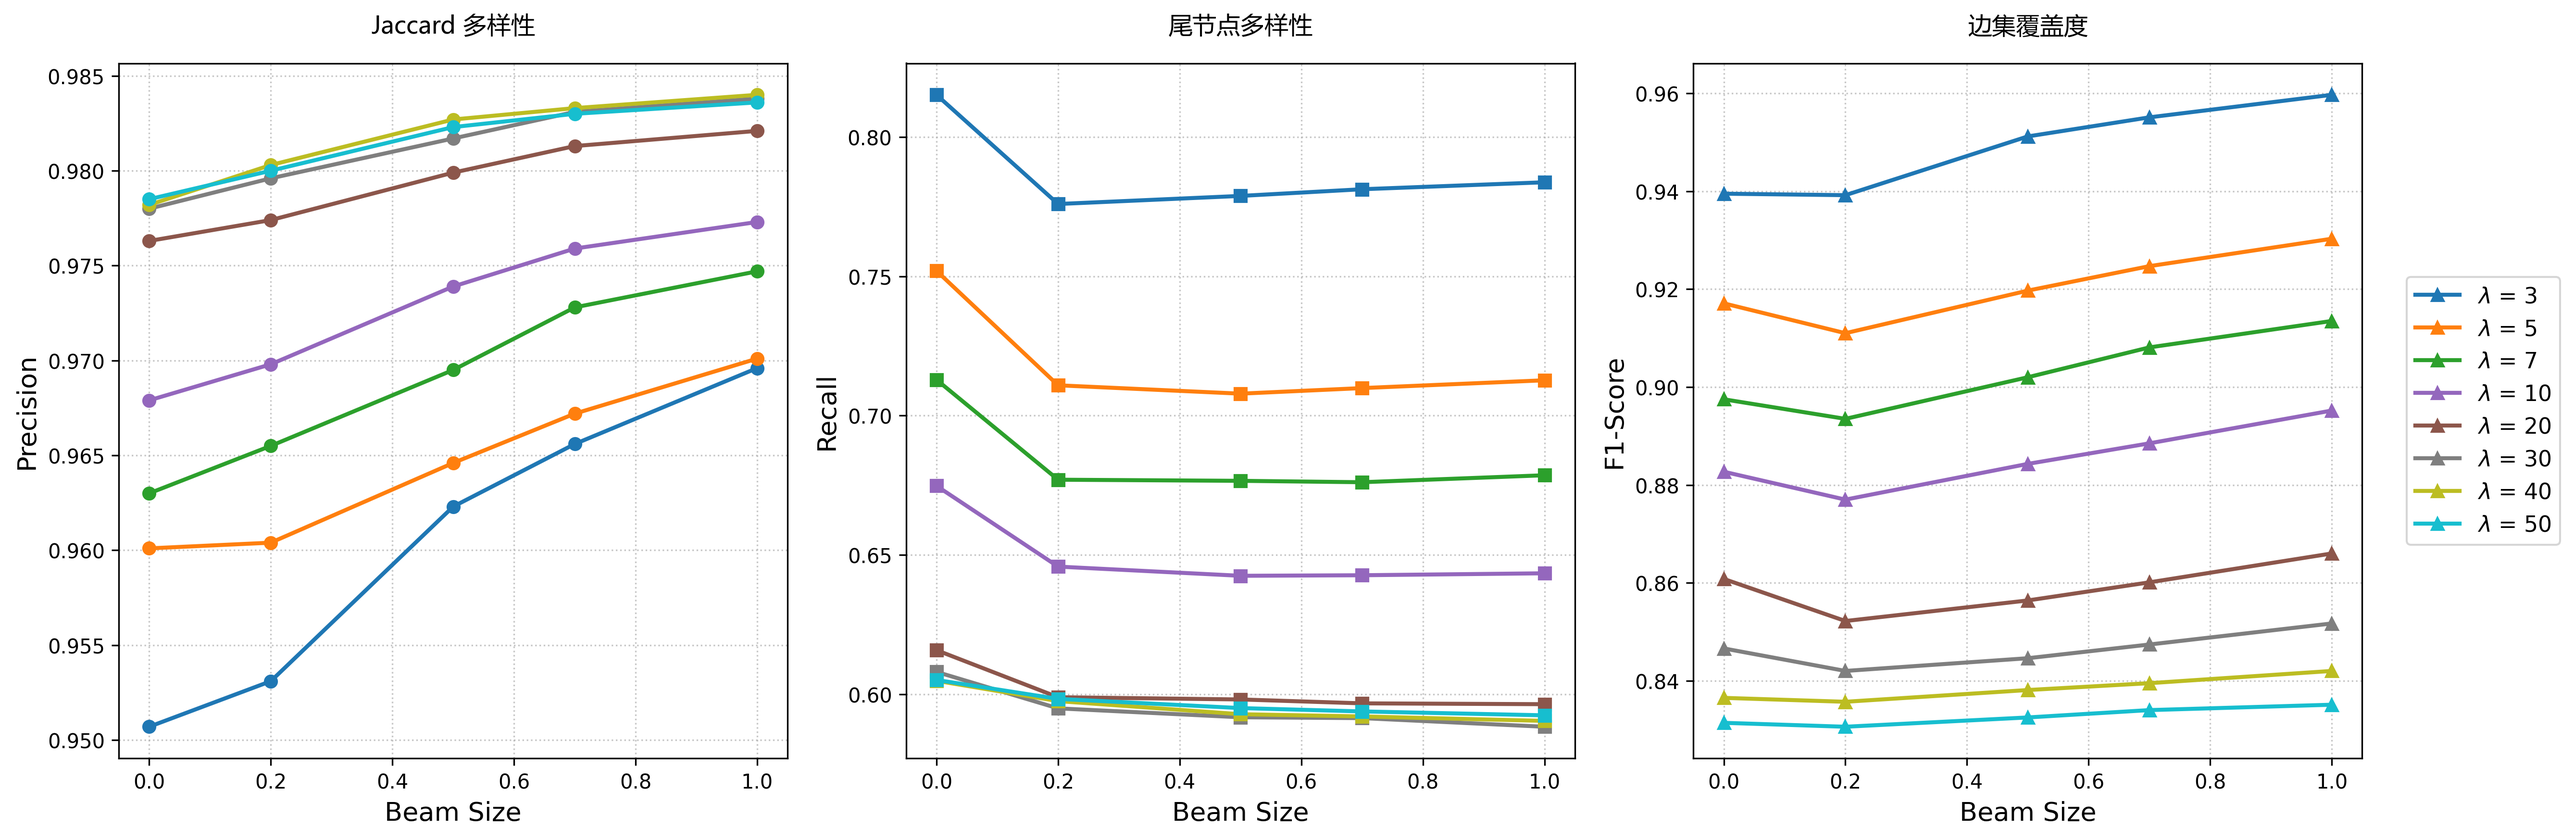
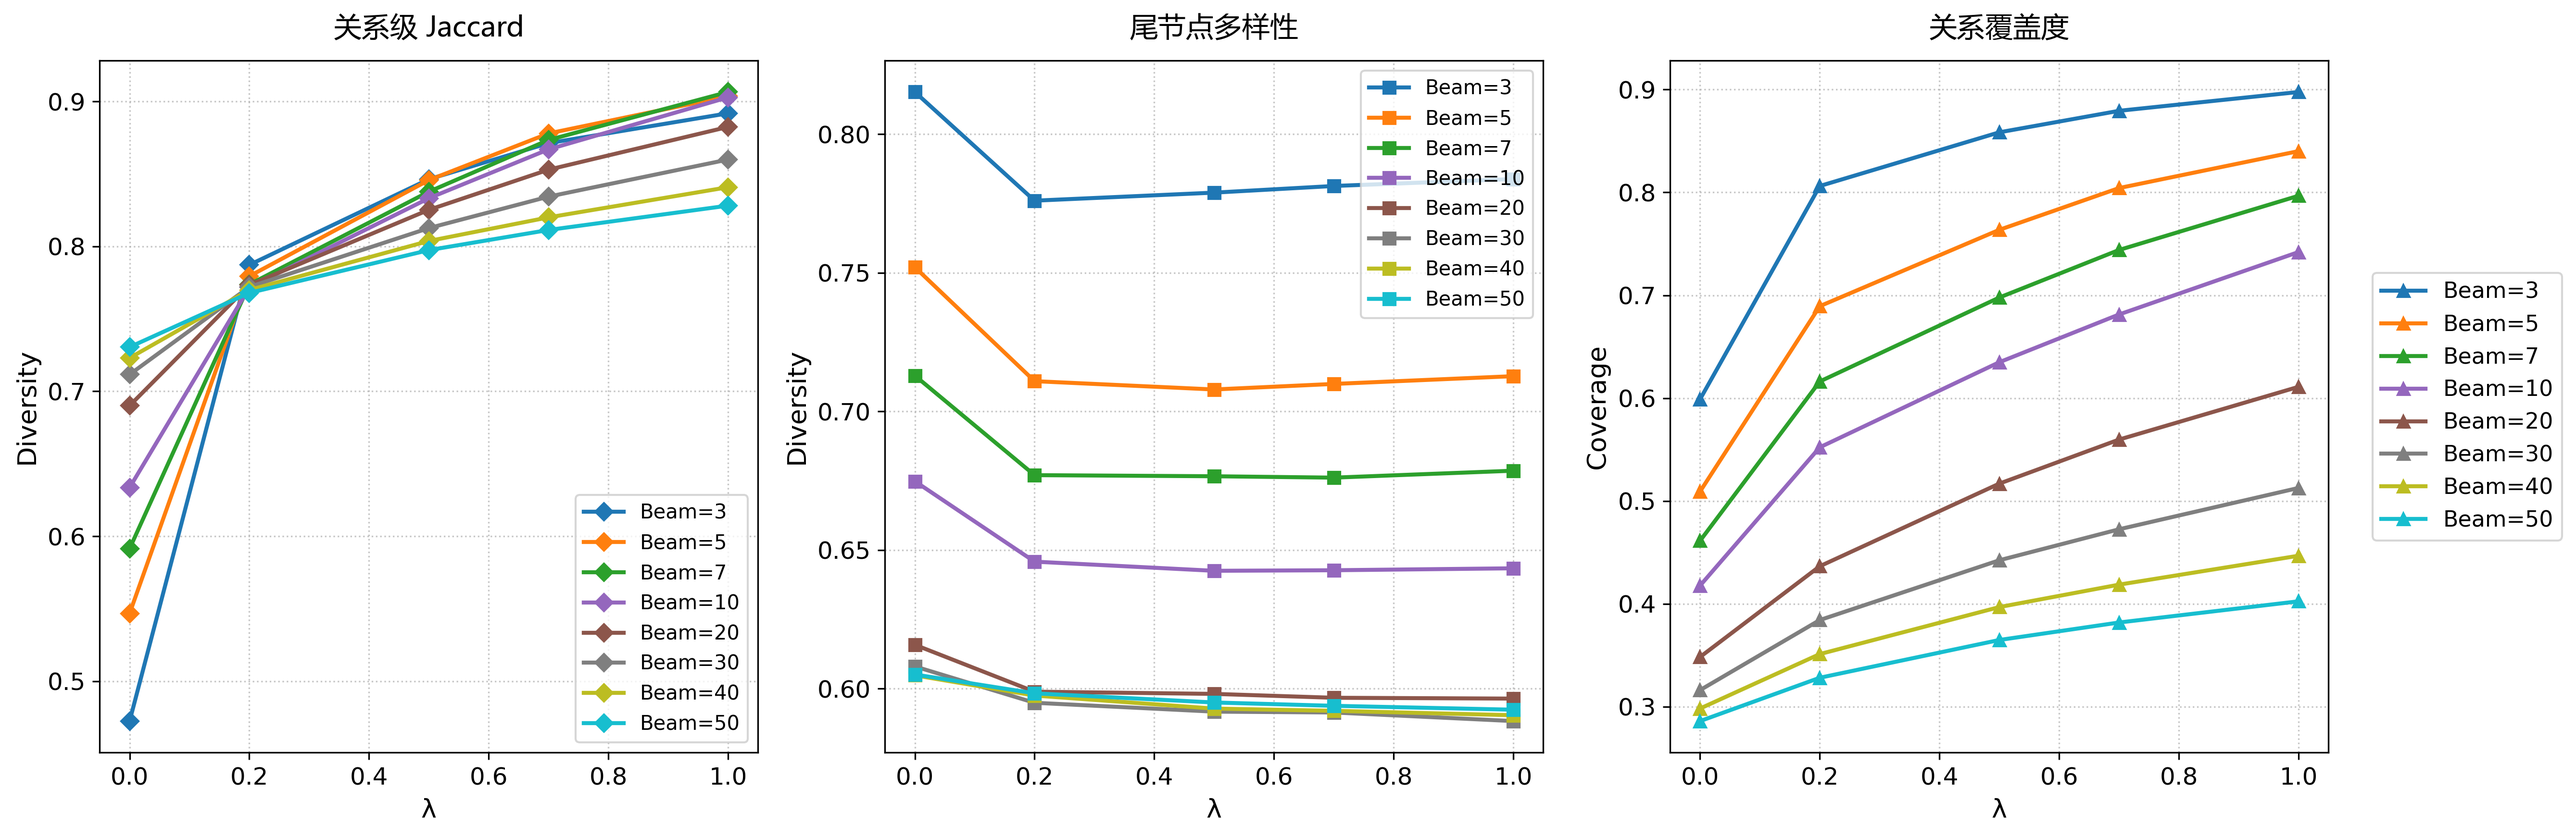
docs: update chapter3 MMR section with improved notation and analysis
- 修正数学符号一致性（$\mathcal{F}_P$, $\mathbf{s}^t[v]$, $\operatorname{Sim}$）
- 补充原始 MMR 公式及其局限性分析（相关性与多样性耦合、惩罚量级不对齐）
- 改进 MMR 改进公式的推导说明，增加对数得分域行为分析
- 将多样性指标重命名以反映关系级别（Rel-Jaccard-Div, Rel-Cov）
- 新增 3.5.3 节实验分析，包含 MMR 效果分析和 MetaQA 多样性失效分析
- 添加 MetaQA 指标失效分析图

diff --git a/docs/chapter3_new.md b/docs/chapter3_new.md
@@ -35,11 +35,11 @@ $$
 其中 $f_t(\cdot)$ 表示第 $t$ 跳对应的可学习映射。随后，模型以 $\mathbf{c}^{t}$ 为查询，对问题中的词级表示进行注意力汇聚，得到该跳的上下文表示：
 
 $$
-\beta_{i}^{t} =
+\boldsymbol{b}_{i}^{t} =
 \frac{\exp \left( (\mathbf{c}^{t})^{\top}\mathbf{h}_{i} \right)}
 {\sum_{j=1}^{L} \exp \left( (\mathbf{c}^{t})^{\top}\mathbf{h}_{j} \right)},
 \qquad
-\mathbf{u}^{t} = \sum_{i=1}^{L} \beta_{i}^{t}\mathbf{h}_{i}
+\mathbf{u}^{t} = \sum_{i=1}^{L} b_{i}^{t}\mathbf{h}_{i}
 $$
 
 基于该上下文表示，模型进一步预测当前跳对各关系的权重：
@@ -115,15 +115,15 @@ $$
 对于实体分数，我们采用全局归一化而非关系内归一化。这是因为关系内归一化会对高扇出关系产生系统性惩罚：当某一关系连接的目标实体数量远多于其他关系时，每个目标实体被均摊的概率极低，导致该关系的路径得分被严重压低，即使该关系在语义上更符合问题意图。为消除这一偏差，定义第 $t$ 跳的全局激活实体集合为：
 
 $$
-\mathcal{V}_{t}=\{v \mid \hat{s}^{\,t}(v) \ge \tau_e\}
+\mathcal{V}_{t}=\{v \mid \mathbf{s}^{t}[v] \ge \tau_e\}
 $$
 
-则实体全局归一化得分定义为：
+其中 $\mathbf{s}^{t}[v]$ 为向量 $\mathbf{s}^{t}$ 中实体 $v$ 对应的分量。那么实体全局归一化得分则可以定义为：
 
 $$
 \tilde{\beta}^{\,t}(v)=
-\frac{\hat{s}^{\,t}(v)}
-{\sum_{v' \in \mathcal{V}_{t}} \hat{s}^{\,t}(v') + \varepsilon}
+\frac{\mathbf{s}^{t}[v]}
+{\sum_{v' \in \mathcal{V}_{t}} \mathbf{s}^{t}[v'] + \varepsilon}
 $$
 
 其中 $\tau_r,\tau_e$ 为推理阶段的激活阈值，$\varepsilon = 10^{-8}$ 为数值平滑项，用于防止分母为零。上述可得单步路径得分为：
@@ -132,10 +132,10 @@ $$
 \text{score}_{\text{step}}(u, r, v; t) = \log \left( \tilde{\alpha}_{r}^{t}(u) \right) + \log \left( \tilde{\beta}^{t}(v) \right)
 $$
 
-由于 WebQSP 中 1-hop 与 2-hop 路径在最终阶段需统一排序，使用长度归一化得分以消除路径长度对累计对数得分量级的影响，长度为 $t$ 的路径最终得分为：
+考虑到不同跳数的路径在最终阶段需统一排序，使用长度归一化得分以消除路径长度对累计对数得分量级的影响，长度为 $t$ 的路径最终得分为：
 
 $$
-S_{raw}(P^{t})= \frac{1}{t} \sum_{i=1}^{t} \text{score}_{step}(e_{i-1}, r_i, e_i; i)
+S_{raw}(P^{t})= \frac{1}{t} \sum_{i=1}^{t} \text{score}_{\text{step}}(e_{i-1}, r_i, e_i; i)
 $$
 
 ### 3.3.2 路径相似度度量
@@ -145,32 +145,40 @@ $$
 基于上述考虑，我们以**关系序列**而非边序列作为路径的相似度表示。对于路径 $P = [e_0, r_1, e_1, \dots, r_t, e_t]$，定义其带位置编号的关系集合为：
 
 $$
-\mathcal{R}_{P} = \{(i,\, r_i) \mid i = 1, 2, \dots, t\}
+\mathcal{F}_{P} = \{(i,\, r_i) \mid i = 1, 2, \dots, t\}
 $$
 
-两条路径 $P_i$ 与 $P_j$ 的相似度定义为关系集合上的 Jaccard 相似度：
+两条路径 $P_i$ 与 $P_j$ 的相似度定义为带位置关系集合上的 Jaccard 相似度：
 
 $$
-Sim(P_i, P_j) =
-\frac{|\mathcal{R}_{P_i} \cap \mathcal{R}_{P_j}|}
-{|\mathcal{R}_{P_i} \cup \mathcal{R}_{P_j}|}
+\operatorname{Sim}(P_i, P_j) =
+\frac{|\mathcal{F}_{P_i} \cap \mathcal{F}_{P_j}|}
+{|\mathcal{F}_{P_i} \cup \mathcal{F}_{P_j}|}
 $$
 
 该定义使得经过相同关系序列的路径（无论尾节点是否不同）被视为高度相似，在 MMR 剪枝中受到有效抑制，从而促使最终 beam 覆盖更多不同关系类型的推理路径，提升路径集合的语义多样性。
 
 ### 3.3.3 基于 MMR 的波束剪枝策略
 
-设第 $t$ 跳候选路径集合为 $\mathcal{C}^{t}$，目标是在其中选出大小为 $B$ 的新波束集合 $\mathcal{B}^{t}$。当已经选出的部分波束为 $\mathcal{S}^{t,m-1}$，准备选择第 $m$ 条路径时，对候选路径 $P_c \in \mathcal{C}^{t} \setminus \mathcal{S}^{t,m-1}$ 计算：
+设第 $t$ 跳候选路径集合为 $\mathcal{C}^{t}$，目标是以贪心方式从中依次选出 $B$ 条路径，构成新的波束集合 $\mathcal{B}^{t}$。记选择过程的中间状态为 $\mathcal{B}^{t,m-1}$（已选前 $m-1$ 条），初始时 $\mathcal{B}^{t,0} = \emptyset$，选满后 $\mathcal{B}^{t} \triangleq \mathcal{B}^{t,B}$。我们借鉴了信息检索领域的最大边际相关性（MMR，Carbonell & Goldstein, 1998）算法，其核心思想是在每步选择中同时考虑候选与查询的相关性以及与已选集合的差异性：
 
 $$
-S_{MMR}(P_c \mid \mathcal{S}^{t,m-1}) =
+\text{MMR} \triangleq \arg\max_{d_i \in R \setminus S} \left[ (1-\lambda)\,\operatorname{Sim}(d_i, Q) - \lambda \max_{d_j \in S} \operatorname{Sim}(d_i, d_j) \right]
+$$
+
+然而，直接将原始 MMR 应用于路径波束剪枝存在两个问题。**第一，相关性与多样性强耦合。** 原始公式用 $(1-\lambda)$ 对相关性项加权，使得调大多样性惩罚 $\lambda$ 的同时必然压缩相关性得分：当 $\lambda$ 较大时，所有路径的相关性权重趋近于零，模型失去区分不同路径的能力，排序退化为纯多样性驱动。**第二，惩罚量级与路径得分不对齐。** 原始公式中两项均为相似度分数，值域为 $[0, 1]$，量级天然匹配；但我们需要选择的路径得分 $S_{raw}$ 由对数概率累加而得，值域为 $(-\infty, 0)$，与相似度项相差悬殊。固定量级的惩罚 $\lambda \cdot \max \operatorname{Sim} \in [0, \lambda]$ 在路径得分差异较大时几乎不起作用，在路径得分差异极小时又会主导排序，无法在两种情形下均保持稳定的多样性约束强度。
+
+针对上述问题，本节对 MMR 公式进行两处改进，提出适用于路径波束剪枝的打分函数。当已选部分波束为 $\mathcal{B}^{t,m-1}$，准备选择第 $m$ 条路径时，对候选路径 $P_c \in \mathcal{C}^{t} \setminus \mathcal{B}^{t,m-1}$ 计算：
+
+$$
+S_{MMR}(P_c \mid \mathcal{B}^{t,m-1}) =
 S_{raw}(P_c) - \lambda \cdot
-\max_{P_b \in \mathcal{S}^{t,m-1}} Sim(P_c, P_b)\cdot |S_{raw}(P_c)|
+\max_{P_b \in \mathcal{B}^{t,m-1}} \operatorname{Sim}(P_c, P_b) \cdot |S_{raw}(P_c)|
 $$
 
-其中 $\lambda \in [0,1]$ 为多样性惩罚权重。该设计使多样性惩罚的量级与路径得分幅值同步缩放，确保惩罚比例相对稳定——无论路径得分绝对值大小，相似度相同的候选均受到等比例的抑制，避免固定惩罚在不同量级得分间造成失衡。当 $\mathcal{S}^{t,m-1}$ 为空时，最大相似度定义为 0，首条路径退化为纯得分选择。当 $\lambda = 0$ 时算法完全取决于路径得分，等价于标准波束搜索；当 $\lambda$ 越接近 1 时，多样性惩罚越强。
+其中 $\lambda \in [0,1]$ 为多样性惩罚权重。基于公式我们做出了两点相应的改进，首先，我们去掉相关性项上的 $(1-\lambda)$ 系数，令 $S_{raw}$ 直接参与排序，使得调整 $\lambda$ 只影响惩罚幅度而不破坏路径间的相关性排序。其次，令惩罚项乘以 $|S_{raw}(P_c)|$，将多样性惩罚的量级与路径自身得分绑定，确保无论 $S_{raw}$ 取值范围如何，相似度相同的候选均受到等比例的抑制。当 $\mathcal{B}^{t,m-1}$ 为空时，最大相似度定义为 0，首条路径退化为纯得分选择；当 $\lambda = 0$ 时等价于标准波束搜索；$\lambda$ 越接近 1，多样性惩罚越强。
 
-与原始 MMR 公式 $(1-\lambda)\text{Sim}_1(d_i, Q) - \lambda \max_{d_j \in S}\text{Sim}_2(d_i, d_j)$ 相比，本节的实现有两处主要调整：一是没有对相关性项施加 $(1-\lambda)$ 系数，而是让路径原始得分直接参与排序，避免在 $\lambda$ 较大时过度压缩原始得分；二是惩罚项乘以 $|S_{raw}(P_c)|$ 以对齐路径得分量级，使惩罚强度随候选路径自身置信度自适应变化。
+进一步分析改进后公式在对数得分域下的行为：由于 $S_{raw}(P_c) < 0$，有 $|S_{raw}(P_c)| = -S_{raw}(P_c)$，惩罚项实际为 $-\lambda \cdot \max \operatorname{Sim} \cdot S_{raw}(P_c)$，这意味着本身得分越高的路径受到的绝对惩罚幅度越小，在多样性约束下仍可优先保留；而得分较低的冗余候选则受到更强抑制，从而在整体上实现**高质量优先、冗余过滤**的效果。
 
 同时考虑到路径检索的性能，我们记每跳平均扩展分支数为 $d$，波束宽度为 $B$，最大跳数为 $T$，则候选生成的时间复杂度约为 $O(TBd)$。每一跳最多形成 $O(Bd)$ 个候选路径，而贪心 MMR 需要从中迭代选出最多 $B$ 条，因此重排序开销约为 $O(TB^2d)$。由于实际大部分的图谱问答中 $T$ 很小，且波束宽度 $B$ 远小于图谱规模，因此我们的方法能在检索效率与路径覆盖之间取得较好的平衡。
 
@@ -255,7 +263,7 @@ MetaQA 数据集由 Zhang 等人提出，基于 WikiMovies 电影领域知识图
 
 为全面评价路径检索质量，本章定义两类指标：**答案检索质量指标**和**路径多样性指标**。前者衡量检索结果是否覆盖正确答案及其精确程度，后者衡量 Top-$K$ 路径之间的结构互补性。
 
-设 Top-$K$ 条路径的尾实体集合为 $\mathcal{A}_K$，真实答案集合为 $\mathcal{A}^*$，路径集合为 $\{P_1, \ldots, P_K\}$，每条路径表示为节点-关系交替序列 $P = [e_0, r_1, e_1, \ldots, r_t, e_t]$，其对应边三元组集合记为 $\mathcal{E}(P) = \{(e_{i-1}, r_i, e_i)\}_{i=1}^{t}$。
+设 Top-$K$ 条路径的尾实体集合为 $\mathcal{A}_K$，真实答案集合为 $\mathcal{A}^*$，路径集合为 $\{P_1, \ldots, P_K\}$，每条路径表示为节点-关系交替序列 $P = [e_0, r_1, e_1, \ldots, r_t, e_t]$，其对应边三元组集合记为 $\mathcal{T}(P) = \{(e_{i-1}, r_i, e_i)\}_{i=1}^{t}$。
 
 #### 答案检索质量指标
 
@@ -273,19 +281,19 @@ $$
 \text{Hit@}1 = \frac{1}{N}\sum_{i=1}^{N}\mathbf{1}\left[e_t^{(1,i)} \in \mathcal{A}^{*(i)}\right]
 $$
 
-该指标类似检索系统的 Precision@1，反映 MMR 排序后最高置信路径的质量。由于 MMR 的第一步等价于纯得分最优选择（已选集合为空，无多样性惩罚），Top1 与 $\lambda$ 完全无关，因此可用于验证 MMR 机制对排序首位的理论无影响性。
+该指标类似检索系统的 Precision@1，反映 MMR 排序后最高置信路径的质量，可用于验证 MMR 排序机制对首位路径质量的干扰程度。
 
 #### 路径多样性指标
 
-三项多样性指标均基于路径的边三元组集合 $\mathcal{E}(P)$ 计算，衡量 $K$ 条路径之间的结构互补程度。指标值域均为 $[0, 1]$，值越大表示多样性越强。
+三项多样性指标分别从关系级结构差异、尾节点分散度和关系模式覆盖三个角度衡量 $K$ 条路径之间的多样性。指标值域均为 $[0, 1]$，值越大表示多样性越强。
 
-**Jaccard 多样性**：对所有 $\binom{K}{2}$ 个路径对，计算边集 Jaccard 相似度后取补，再求均值：
+**关系级 Jaccard 多样性**：对所有 $\binom{K}{2}$ 个路径对，计算关系集合上的 Jaccard 相似度后取补，再求均值：
 
 $$
-\text{Jaccard-Div@}K = 1 - \frac{2}{K(K-1)}\sum_{1 \le i < j \le K} \frac{|\mathcal{E}(P_i) \cap \mathcal{E}(P_j)|}{|\mathcal{E}(P_i) \cup \mathcal{E}(P_j)|}
+\text{Rel-Jaccard-Div@}K = 1 - \frac{2}{K(K-1)}\sum_{1 \le i < j \le K} \frac{|\mathcal{F}_{P_i} \cap \mathcal{F}_{P_j}|}{|\mathcal{F}_{P_i} \cup \mathcal{F}_{P_j}|}
 $$
 
-该指标衡量路径对之间边级结构的平均差异度。值为 0 表示所有路径边集完全相同（零多样性）；值为 1 表示任意两条路径无公共边（完全不重叠）。
+其中 $\mathcal{F}_{P}$ 是路径 $P$ 上的带位置关系集合。该指标衡量路径对之间关系级的平均差异度，值越高说明最终检索的路径在每一跳上使用的关系越不重复。
 
 **尾节点多样性**：衡量 $K$ 条路径终点实体的多元程度：
 
@@ -295,17 +303,36 @@ $$
 
 该指标值域为 $[1/K, 1]$，越高说明 $K$ 条路径指向越多不同的候选答案实体，直接影响 Hit@$K$ 和 Recall 的上界。当所有路径均指向同一尾节点时，Tail-Div@$K$ = $1/K$；当各路径终点互不相同时，Tail-Div@$K$ = 1。
 
-**边集覆盖率**（Edge-Cov@$K$）：衡量 $K$ 条路径对知识图谱子图的探索广度：
+**关系覆盖率**：衡量 $K$ 条路径在关系模式层面的覆盖广度：
 
 $$
-\text{Edge-Cov@}K = \frac{\left|\bigcup_{k=1}^{K}\mathcal{E}(P_k)\right|}{\sum_{k=1}^{K}|\mathcal{E}(P_k)|}.
+\text{Rel-Cov@}K = \frac{\left|\bigcup_{k=1}^{K}\mathcal{F}_{P_k}\right|}{\sum_{k=1}^{K}|\mathcal{F}_{P_k}|}
 $$
 
-分子为 $K$ 条路径的去重边总数，分母为各路径边数之和。该值越高，说明路径之间重复走相同图谱子图的比例越低，路径集合探索了越多不同的事实三元组。当任意两条路径无公共边时，Edge-Cov@$K$ = 1；当所有路径完全相同时，Edge-Cov@$K$ = $1/K$。
+分子为 $K$ 条路径的去重关系总数，分母为各路径关系数之和。该值越高，说明路径之间重复使用相同关系模式的比例越低，最终保留的路径集合覆盖了更多不同的推理关系组合。当任意两条路径在每一跳上均不共享关系时，Rel-Cov@$K$ = 1；当所有路径的关系序列完全相同时，Rel-Cov@$K$ = $1/K$。
 
-三项多样性指标从不同粒度刻画路径集合的互补性：Jaccard-Div@$K$ 从全局路径对视角衡量边级结构差异，是最综合的多样性度量；Tail-Div@$K$ 从答案端视角衡量候选答案实体的覆盖广度，与 Hit@$K$ 和 Recall 直接相关；Edge-Cov@$K$ 从图谱子图视角衡量路径对知识图谱的探索深度，与路径冗余程度互为补充。三者结合，可以从"路径是否探索了不同推理链"（Jaccard-Div）、"候选答案是否足够多元"（Tail-Div）和"KG 子图覆盖是否充分"（Edge-Cov）三个维度对 MMR 机制的多样性增益进行定量验证。
+三项多样性指标从不同粒度刻画路径集合的互补性：Rel-Jaccard-Div@$K$ 从关系级结构视角衡量路径对之间的差异性，直接对应 3.3.2 节中的 MMR 目标；Tail-Div@$K$ 从答案端视角衡量候选答案实体的覆盖广度，与 Hit@$K$ 和 Recall 直接相关；Rel-Cov@$K$ 则进一步从集合覆盖角度衡量最终路径对关系的选择程度。三者结合，可以从"关系选择是否真正多样"（Rel-Jaccard-Div）、"候选答案是否足够多元"（Tail-Div）和"关系模式是否足够丰富"（Rel-Cov）三个维度对 MMR 机制的多样性增益进行定量验证。
 
-### 3.5.3 多束路径检索效果与多样性消融分析
+### 3.5.3 多束路径检索效果与消融分析
 
+#### MMR 效果分析
 
-### 3.5.3 
+![alt text](figures/mmr_vs_baseline_hit.png)
+
+从检索质量上来看，随着波束宽度越来越大，答案的命中率越来越高，在基础模型 TransferNet 上，hits@1 指标仅有 0.64，而我们的多束检索能够达到 0.67，提升了 3 个百分点，更重要的是，原本 TransferNet 在 hits 上仅有 0.86，而在多样性波束检索算法下，在波束宽度 k=20 时就达到了 0.90 以上。
+
+此外，当 $\lambda$ = 0 时，我们的路径检索算法退化为没有多样性约束的多束检索方法，可以清楚的看到，缺少多样性约束的多束检索方法，在 Hits 上与我们的算法相差了接近 2 个百分点，而在 hits@1 指标上，当波束宽度增加到 20 后也与我们的算法几乎一致。这些指标充分证明了我们提出的路径检索算法能够准确、有效的检索到更多高价值的路径。
+
+![alt text](figures/mmr_diversity.png)
+
+从多样性指标来看，随着多样性约束 $\lambda$ 的增长，关系级 Jaccard 多样性逐渐增长，这直接表明 MMR 确实在其优化目标上有效拉开了最终路径集合的关系模式差异。关系覆盖度整体也随 $\lambda$ 增长而上升，且在较小波束宽度下更加明显，说明关系级 MMR 更倾向于保留关系模式不同的候选路径。与此同时，尾节点多样性会随 $\lambda$ 增大而略有下降，这说明路径结构虽然更加分散，但终点实体反而会出现一定程度的收敛。结合前述 Hit@$K$ 的结果可以看出，我们的方法并非机械地追求路径彼此不同，而是在保持答案相关性的前提下尽可能引入互补的推理路径。
+
+结合路径检索质量和多样性指标可以看出，随着波束宽度 $K$ 的增长，Hit@$K$ 持续提高，但多样性收益在 $K \approx 20$ 后逐渐趋于平缓，更大的波束主要引入置信度较低且模式重复的候选路径。因此，从检索收益与后续 LLM 输入长度的平衡来看，$K=20$ 左右已经能够覆盖大部分有效路径。在多样性约束方面，$\lambda$ 取 0.2 - 0.5 时通常能够在答案命中率与关系模式多样性之间取得更稳定的折中，因此本文后续实验采用波束宽度 $K=20$、多样性约束 $\lambda=0.2$ 作为默认设置。
+
+#### MetaQA 多样性“失效”分析
+
+在对 MetaQA 数据集进行实验时，我们观察到了多样性惩罚“失效”的现象，如图 metaqa指标“失效”分析 所示，随着 $\lambda$ 变化，所有指标几乎是一条水平的直线，深入剖析算法的底层执行逻辑，我们发现这并非算法失效，而是由于 MetaQA 图谱关系类型极少，结合 TransferNet 模型推理时的高置信度激活，导致在阈值剪枝后，实际可扩展的候选路径数量 $|C|$ 往往小于或等于波束宽度 $B$。根据本章 3.3.3 节的 MMR 剪枝策略，当候选集规模小于波束时，多样性惩罚项仅能改变候选路径的内部排序，而无法改变最终进入波束的路径集合，从而最终表现为基于集合评估的覆盖率、命中率等宏观指标保持稳定。对于 Hit@1 而言，由于每跳第一次选择时已选集合为空（无多样性惩罚），第一条路径始终退化为 $S_{raw}$ 最优选择，因此在候选数 $|C| \leq B$ 时 Hit@1 同样与 $\lambda$ 无关，这与实验观测完全吻合。
+
+![alt text](figures/metaqa指标"失效"分析.png)
+
+这一现象从反面印证了本章方法的适用边界，基于 MMR 的多样化波束搜索，其核心价值在于解决**多关系、强噪声、大搜索空间** 下的路径爆炸与同源冗余问题；而在极度稀疏或高度确定性的简单图谱场景中，算法会自动退化为全量保留的安全策略。但从结果上来看 Hit@K 和 Hit@1 指标都几乎接近 1.0，这说明我们的多束搜索策略依旧是能够有效检索出有效路径，只是在简单知识图谱上价值有限。
